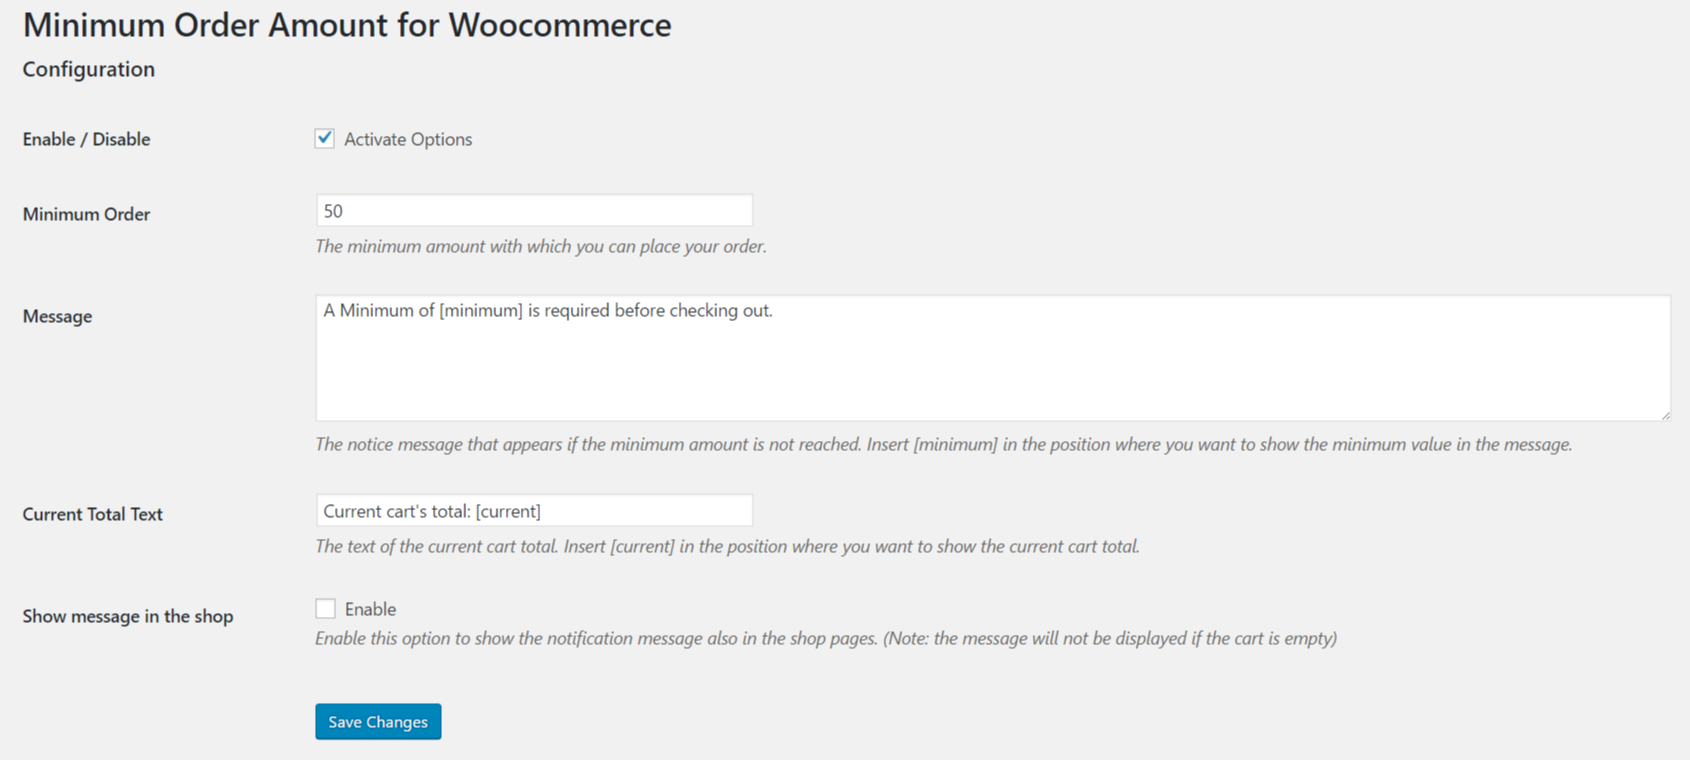
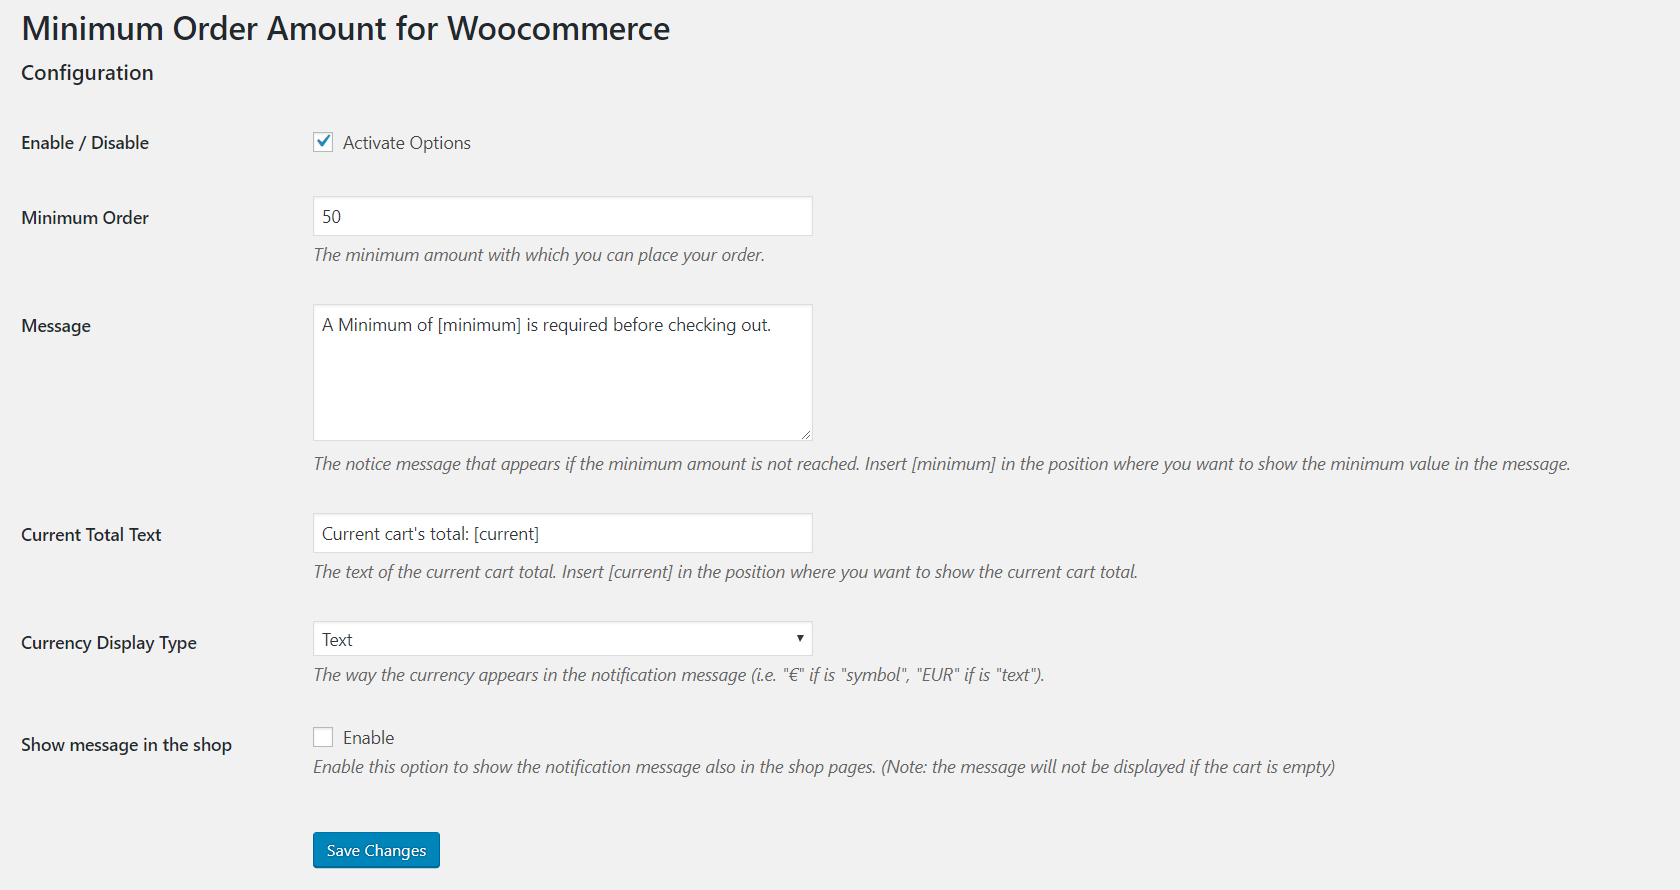
* New - Added the ability to choose how to display the currency * Fix - Now the options are deleted when the plugin is uninstalled and not when the plugin is deactivate * Fix - The cart total and the minimum order were formatted with two decimal places * Dev - The function for set the minimum order 

diff --git a/admin/css/dc-moafw-admin.css b/admin/css/dc-moafw-admin.css
@@ -2,3 +2,7 @@
  * All of the CSS for your admin-specific functionality should be
  * included in this file.
  */
+ #dc_moafw_currency_display_type {
+ 	padding-top: 0;
+    padding-bottom: 0;
+ }

diff --git a/public/class-dc-moafw-public.php b/public/class-dc-moafw-public.php
@@ -103,34 +103,22 @@ class Dc_Moafw_Public {
 	/**
 	 * Set a minimum dollar amount per order
 	 *
-	 * @since    1.2.0
+	 * @since    1.3.0
 	 */
 	public function dc_moafw_set_minimum_order() {
         global $woocommerce;
- 		$flag = false;
+        $wcpbc_values = new WCPBC_Customer();
+ 		$wcpbc_currency_active = $this->dc_moafw_wcpbc_currency_is_active($wcpbc_values);
 
-        if ( in_array( 'polylang/polylang.php', apply_filters( 'active_plugins', get_option( 'active_plugins' ) ) ) && function_exists('pll__') ) {
-        	$message = str_replace('[minimum]', '%s %s', pll__(get_option('dc_moafw_message')));
-        	$current_cart_text = str_replace('[current]', '%s %s', pll__(get_option('dc_moafw_current_total_text')));
-        }
-        else {
-        	$message = str_replace('[minimum]', '%s %s', get_option('dc_moafw_message'));
-        	$current_cart_text = str_replace('[current]', '%s %s', get_option('dc_moafw_current_total_text'));
-        }
-
-        if ( in_array( 'woocommerce-product-price-based-on-countries/woocommerce-product-price-based-on-countries.php', apply_filters( 'active_plugins', get_option( 'active_plugins' ) ) ) ) {
-	        $wcpbc_values = new WCPBC_Customer();
-	        if ( $wcpbc_values->zone_id ) {
-	        	$flag = true;
-	        }
-	    }
+    	$message = $this->dc_moafw_get_message();
+    	$current_cart_text = $this->dc_moafw_get_current_cart_text();
 
         // Total we are going to be using for the Math
         // This is before taxes and shipping charges
         $total = round(WC()->cart->subtotal, 2);
-
+        //print_r(WC()->cart->subtotal_ex_tax);
         if( is_cart() || is_checkout() ) {
-		    if($flag) {
+		    if($wcpbc_currency_active) {
 		        // Set minimum cart total
 		        $minimum_cart_total = get_option('dc_moafw_minimum') * $wcpbc_values->exchange_rate;
 
@@ -138,10 +126,10 @@ class Dc_Moafw_Public {
 		            // Display our error message
 		            wc_add_notice( sprintf( '<strong>'.$message.'</strong>'
 		                .'<br />'.$current_cart_text,
-		                $minimum_cart_total,
-		                $wcpbc_values->currency,
-		                $total,
-		                $wcpbc_values->currency ),
+		                number_format($minimum_cart_total, 2, ',', '.'),
+		                $this->dc_moafw_get_currency_display_type($wcpbc_values),
+		                number_format($total, 2, ',', '.'),
+		                $this->dc_moafw_get_currency_display_type($wcpbc_values) ),
 		            'error' );
 		        }
 		    }
@@ -153,24 +141,24 @@ class Dc_Moafw_Public {
 		            // Display our error message
 		            wc_add_notice( sprintf( '<strong>'.$message.'</strong>'
 		                .'<br />'.$current_cart_text,
-		                $minimum_cart_total,
-		                get_option( 'woocommerce_currency'),
-		                $total,
-		                get_option( 'woocommerce_currency') ),
+		                number_format($minimum_cart_total, 2, ',', '.'),
+		                $this->dc_moafw_get_currency_display_type($wcpbc_values),
+		                number_format($total, 2, ',', '.'),
+		                $this->dc_moafw_get_currency_display_type($wcpbc_values) ),
 		            'error' );
 		        }
 		    }
 		}
 		elseif(get_option( 'dc_moafw_message_shop' ) && $total) {
-			if($flag) {
+			if($wcpbc_currency_active) {
 		        // Set minimum cart total
 		        $minimum_cart_total = get_option('dc_moafw_minimum') * $wcpbc_values->exchange_rate;
 
 		        if( $total < $minimum_cart_total  ) {
 		            // Display our error message
 		            wc_add_notice( sprintf( '<strong>'.$message.'</strong>',
-		                $minimum_cart_total,
-		                $wcpbc_values->currency),
+		                number_format($minimum_cart_total, 2, ',', '.'),
+		                $this->dc_moafw_get_currency_display_type($wcpbc_values)),
 		            'error' );
 		        }
 		    }
@@ -181,12 +169,72 @@ class Dc_Moafw_Public {
 		        if( $total < $minimum_cart_total  ) {
 		            // Display our error message
 		            wc_add_notice( sprintf( '<strong>'.$message.'</strong>',
-		                $minimum_cart_total,
-		                get_option( 'woocommerce_currency') ),
+		                number_format($minimum_cart_total, 2, ',', '.'),
+		                $this->dc_moafw_get_currency_display_type($wcpbc_values) ),
 		            'error' );
 		        }
 		    }
 		}
+	}
+
+	/**
+	 * Check if woocommerce-product-price-based-on-countries is active and have a currency
+	 *
+	 * @since    1.3.0
+	 */
+	public function dc_moafw_wcpbc_currency_is_active($wcpbc_values) {
+		if ( in_array( 'woocommerce-product-price-based-on-countries/woocommerce-product-price-based-on-countries.php', apply_filters( 'active_plugins', get_option( 'active_plugins' ) ) ) ) {
+	        if ( $wcpbc_values->zone_id ) {
+	        	return true;
+	        }
+
+	        return false;
+	    }
+
+	    return false;
+	}
+
+	/**
+	 * Get a currency display type
+	 *
+	 * @since    1.3.0
+	 */
+	public function dc_moafw_get_currency_display_type($wcpbc_values) {
+		if(get_option('dc_moafw_currency_display_type') != "symbol") {
+			if($this->dc_moafw_wcpbc_currency_is_active($wcpbc_values)) {
+				return $wcpbc_values->currency;
+			}
+
+			return get_option( 'woocommerce_currency');
+		}
+
+		return get_woocommerce_currency_symbol();
+	}
+
+	/**
+	 * Get a message
+	 *
+	 * @since    1.3.0
+	 */
+	public function dc_moafw_get_message() {
+		if ( in_array( 'polylang/polylang.php', apply_filters( 'active_plugins', get_option( 'active_plugins' ) ) ) && function_exists('pll__') ) {
+        	return str_replace('[minimum]', '%s %s', pll__(get_option('dc_moafw_message')));
+
+        }
+
+        return str_replace('[minimum]', '%s %s', get_option('dc_moafw_message'));
+	}
+
+	/**
+	 * Get a current cart text
+	 *
+	 * @since    1.3.0
+	 */
+	public function dc_moafw_get_current_cart_text() {
+		if ( in_array( 'polylang/polylang.php', apply_filters( 'active_plugins', get_option( 'active_plugins' ) ) ) && function_exists('pll__') ) {
+        	return str_replace('[current]', '%s %s', pll__(get_option('dc_moafw_current_total_text')));
+        }
+        	return str_replace('[current]', '%s %s', get_option('dc_moafw_current_total_text'));
 	}
 
 }

diff --git a/admin/partials/dc-moafw-admin-display.php b/admin/partials/dc-moafw-admin-display.php
@@ -6,7 +6,7 @@
  * This file is used to markup the admin-facing aspects of the plugin.
  *
  * @link       https://github.com/dcurasi
- * @since      1.1.0
+ * @since      1.3.0
  *
  * @package    Dc_Moafw
  * @subpackage Dc_Moafw/admin/partials
@@ -64,6 +64,18 @@
                       <input type="text" id="dc_moafw_current_total_text" value="<?php echo get_option('dc_moafw_current_total_text'); ?>" name="dc_moafw_current_total_text" class="regular-text">
                       <p class="description"><?php _e( 'The text of the current cart total. Insert [current] in the position where you want to show the current cart total.', 'dc-moafw' ); ?></p>
                   </label>
+                </td>
+            </tr>
+            <tr valign="top">
+                <th scope="row">
+                    <label for="dc_moafw_currency_display_type"><?php _e( 'Currency Display Type', 'dc-moafw' ); ?></label>
+                </th>
+                <td>
+                  <select id="dc_moafw_currency_display_type" name="dc_moafw_currency_display_type">
+                      <option value="symbol" <?php echo selected(get_option('dc_moafw_currency_display_type'), "symbol"); ?>><?php _e('Symbol', 'dc-moafw'); ?></option>
+                      <option value="text" <?php echo selected(get_option('dc_moafw_currency_display_type'), "text"); ?>><?php _e('Text', 'dc-moafw'); ?></option>
+                  </select>
+                  <p class="description"><?php _e( 'The way the currency appears in the notification message (i.e. "&euro;" if is "symbol", "EUR" if is "text").', 'dc-moafw' ); ?></p>
                 </td>
             </tr>
             <tr valign="top">

diff --git a/includes/class-dc-moafw.php b/includes/class-dc-moafw.php
@@ -69,7 +69,7 @@ class Dc_Moafw {
 	public function __construct() {
 
 		$this->plugin_name = 'dc-moafw';
-		$this->version = '1.2.0';
+		$this->version = '1.3.0';
 
 		$this->load_dependencies();
 		$this->set_locale();
@@ -144,14 +144,14 @@ class Dc_Moafw {
 	 * Register all of the hooks related to the admin area functionality
 	 * of the plugin.
 	 *
-	 * @since    1.2.0
+	 * @since    1.3.0
 	 * @access   private
 	 */
 	private function define_admin_hooks() {
 
 		$plugin_admin = new Dc_Moafw_Admin( $this->get_plugin_name(), $this->get_version() );
 
-		//$this->loader->add_action( 'admin_enqueue_scripts', $plugin_admin, 'enqueue_styles' );
+		$this->loader->add_action( 'admin_enqueue_scripts', $plugin_admin, 'enqueue_styles' );
 		//$this->loader->add_action( 'admin_enqueue_scripts', $plugin_admin, 'enqueue_scripts' );
 		$this->loader->add_action( 'admin_menu', $plugin_admin, 'add_menu_page' );
 		$this->loader->add_action( 'admin_init', $plugin_admin, 'settings_api_init' );

diff --git a/dc-moafw.php b/dc-moafw.php
@@ -9,14 +9,14 @@
  * that starts the plugin.
  *
  * @link              https://github.com/dcurasi
- * @since             1.2.0
+ * @since             1.3.0
  * @package           Dc_Moafw
  *
  * @wordpress-plugin
  * Plugin Name:       Minimum Order Amount for Woocommerce
  * Plugin URI:        https://github.com/dcurasi/dc-moafw
  * Description:       Minimum Order Amount for Woocommerce allows you to set easily and fast a minimum amount for the woocommerce orders.
- * Version:           1.2.0
+ * Version:           1.3.0
  * Author:            Dario Curasì
  * Author URI:        https://github.com/dcurasi
  * License:           GPL-2.0+

diff --git a/admin/class-dc-moafw-admin.php b/admin/class-dc-moafw-admin.php
@@ -120,13 +120,14 @@ class Dc_Moafw_Admin {
 	/**
 	 * Creates our settings sections with fields etc.
 	 *
-	 * @since    1.2.0
+	 * @since    1.3.0
 	 */
 	public function settings_api_init(){
 		register_setting('dc_moafw_options_group', 'dc_moafw_activate');
 	    register_setting('dc_moafw_options_group', 'dc_moafw_minimum');
 	    register_setting('dc_moafw_options_group', 'dc_moafw_message');
 	    register_setting('dc_moafw_options_group', 'dc_moafw_current_total_text');
+	    register_setting('dc_moafw_options_group', 'dc_moafw_currency_display_type');
 	    register_setting('dc_moafw_options_group', 'dc_moafw_message_shop');
 	}
 

diff --git a/uninstall.php b/uninstall.php
@@ -20,12 +20,18 @@
  * https://github.com/tommcfarlin/WordPress-Plugin-Boilerplate/pull/123#issuecomment-28541913
  *
  * @link       https://github.com/dcurasi
- * @since      1.0.0
+ * @since      1.3.0
  *
  * @package    Dc_Moafw
  */
 
 // If uninstall not called from WordPress, then exit.
 if ( ! defined( 'WP_UNINSTALL_PLUGIN' ) ) {
+	delete_option('dc_moafw_activate');
+    delete_option('dc_moafw_minimum');
+    delete_option('dc_moafw_message');
+    delete_option('dc_moafw_current_total_text');
+    delete_option('dc_moafw_currency_display_type');
+    delete_option('dc_moafw_message_shop');
 	exit;
 }

diff --git a/includes/class-dc-moafw-activator.php b/includes/class-dc-moafw-activator.php
@@ -27,13 +27,14 @@ class Dc_Moafw_Activator {
 	 *
 	 * Long Description.
 	 *
-	 * @since    1.2.0
+	 * @since    1.3.0
 	 */
 	public static function activate() {
 		add_option('dc_moafw_activate', 1);
 		add_option('dc_moafw_minimum', 50);
 		add_option('dc_moafw_message', __('A Minimum of [minimum] is required before checking out.', 'dc-moafw'));
 		add_option('dc_moafw_current_total_text', __("Current cart's total: [current]", 'dc-moafw'));
+		add_option('dc_moafw_currency_display_type', "text");
 		add_option('dc_moafw_message_shop', 0);
 	}
 

diff --git a/includes/class-dc-moafw-deactivator.php b/includes/class-dc-moafw-deactivator.php
@@ -27,14 +27,10 @@ class Dc_Moafw_Deactivator {
 	 *
 	 * Long Description.
 	 *
-	 * @since    1.2.0
+	 * @since    1.3.0
 	 */
 	public static function deactivate() {
-		delete_option('dc_moafw_activate');
-	    delete_option('dc_moafw_minimum');
-	    delete_option('dc_moafw_message');
-	    delete_option('dc_moafw_current_total_text');
-	    delete_option('dc_moafw_message_shop');
+		
 	}
 
 }
